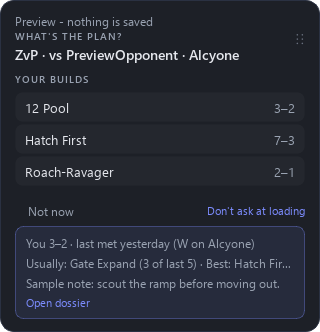
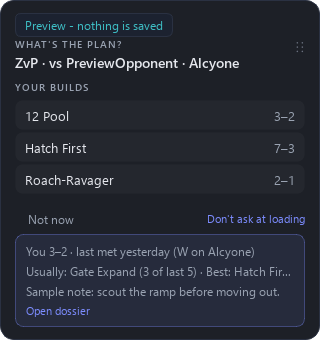
test(agent): verify real preview Escape and final integrated checks

diff --git a/apps/agent/tests/test_card_previews.py b/apps/agent/tests/test_card_previews.py
@@ -92,8 +92,15 @@ def test_preview_escape_and_timeout_are_local_and_real_card_replaces_immediately
     assert elapsed.wait(1000), "the real Qt preview timeout was not delivered"
     assert not preview.isVisible() and recorder.calls == []
     host.show_preview(LOADING); preview = host.window(LOADING)
-    preview._preview_escape.activated.emit()
+    # Loading cards retain their no-focus native flags. Escape is app-local:
+    # it works while the user remains in Settings without a global game hotkey.
+    settings_input = QtWidgets.QLineEdit()
+    settings_input.show(); settings_input.activateWindow(); settings_input.setFocus()
+    app.processEvents()
+    QtTest.QTest.keyClick(settings_input, QtCore.Qt.Key_Escape)
+    app.processEvents()
     assert not preview.isVisible() and recorder.calls == []
+    settings_input.close(); settings_input.deleteLater()
     host.show_preview(LOADING)
     real = postgame_model()
     host.dispatch("show_postgame", (real,)); app.processEvents()

diff --git a/docs/handoff/card-preview-checkpoint.md b/docs/handoff/card-preview-checkpoint.md
@@ -1,48 +1,50 @@
 # Wave 3 card preview/reset/keyboard checkpoint
 
-Isolated `codex/wave3-card-previews` branch in
-`C:/SC2TOOLS/.worktrees/wave3-card-previews`, stacked on private scouting #691
-`db421836`. Complete final-plan spec, augments (none), audit and howto read for
-`agent-gui-expansion-1`. Root owns dependency-order merge and release.
+Isolated branch `codex/wave3-card-previews` in
+`C:/SC2TOOLS/.worktrees/wave3-card-previews`. Based on private scouting #691,
+then merged green main `441582d0` at `78032e52`. Complete final-plan specification,
+augments (none), audit and howto read for `agent-gui-expansion-1`.
 
-Implementation complete; final full/package/web checks remain: local sample models and preview action isolation,
-90-second/Escape lifecycle and immediate real-card replacement; Settings Cards
-controls and generic position reset with off-UI persistence; Enter/Down/Up search
-flow and unchanged Ctrl+Enter confirmation; actual Qt/runner/state regressions,
-help and README updates. Controller business logic is unchanged (verified empty controller diff).
+## Implemented
 
-No AI features/calls, new infrastructure, production operations, version bump,
-installer execution, signing, tag or release. Private scouting #691 is frozen
-clean at `db421836` with current main `b86ca989`; local integrated API133 and help72
-pass, both types pass. Exact-head GitHub python/API/web workflows for #691 are
-all successful. Expansion focused native/runner/state suite: **187 passed**.
+- Fixed sample loading/after-game models with three featured builds, Alcyone,
+  PreviewOpponent and sample scouting. Use the latest accepted replay's concrete
+  race persisted on the upload worker; default ZvP. Older history cannot replace
+  a newer race, and a save failure cannot lose the existing check-in callback.
+- Visible preview chip and local action interception: no controller, API or
+  browser work. Dragging still persists placement. Actual Qt timer closes at
+  90 seconds; Escape works while the user remains in this app without a global
+  game hotkey. Real cards replace previews immediately and have priority.
+- Settings Cards buttons work with check-ins off; generic reset clears every
+  host/state card kind, persists off the UI thread and repositions visible cards.
+  Three-second reset feedback and queue link use the existing website URL helper.
+- Search Enter selects/focuses the top displayed result (featured before More),
+  no-match does nothing, Down focuses without selecting, Up returns to search,
+  Ctrl+Enter still confirms. Native flags/handles never change and there is no
+  explicit activation request. Controller business logic is unchanged.
+- Rich build-check-in help, README, Unreleased entries and three reviewed native
+  screenshots at `docs/handoff/screenshots/desktop-card-preview-*.png`.
 
-Implemented fixed sample models (known race, default ZvP, Alcyone and scouting),
-local action interception with no controller/network/browser work, app-local
-Escape/90-second expiry and immediate real-card priority, generic placement reset
-and off-UI durable save, Cards controls usable while check-ins are off, and actual
-Settings queue URL wiring. The latest accepted replay race is persisted on the
-upload worker; older history cannot replace it. Search Enter picks/focuses the
-first displayed match, Down focuses without selecting and Up returns to search;
-Ctrl+Enter remains the card confirmation shortcut. Help/README/Unreleased entries
-are updated. Real Qt regressions include glyph metrics, actions, timer dispatch,
-drag/reset, keyboard focus and native no-activation flags. Full suite, frozen
-package smoke, screenshots, web checks and draft PR remain required.
+## Final verification
 
+- Integrated full Windows agent: **2,152 passed, 1 platform skip, 78 subtests**
+  (163.62 s). Focused native/runner/state suite:187 passed; final actual preview
+  suite:18 passed, including real Escape input from Settings.
+- The first full run exposed one test's fixed 40 ms wait under build load. It now
+  waits for the actual Qt timeout signal with a bounded one-second deadline,
+  retaining the active 90-second production timer assertion. No responsiveness
+  measurement or production timeout was relaxed.
+- Real unsigned PyInstaller one-folder bundle builds, includes the new preview
+  module and reports `NotSigned`. Its offline diagnostic paints all five pages,
+  Streams and both preview cards through production Settings callbacks with no
+  user state/service/network bootstrap. Loading320x340, postgame360x458,
+  Settings560x495 screenshots use installed Segoe UI fonts.
+- Exact-CI web production build and all unchanged budgets pass: /app234.9/240 kB,
+  game423/440, help151.2/185, help article179.4/200. Post-build typecheck, strict
+  touched-help lint and all72 help checks pass (70-article registry).
 
-## Integrated verification checkpoint
-
-Current main `441582d0` (including merged scouting #691) merged cleanly at
-`78032e52`. Source controller business logic is unchanged. All 187 focused checks
-pass. The first full suite found one new test's 40 ms fixed wait was too short
-for actual Qt timer delivery under package-build load; the other 2,151 tests
-passed. The regression now waits for the actual Qt timeout signal with a bounded
-1-second deadline and still asserts the production timer is 90 seconds, active,
-and closes the card. The timeout/package subset passes **24 checks**.
-
-The offline frozen-GUI diagnostic now actually paints both previews through
-production Settings callbacks, in addition to the five pages/Streams check,
-without state/service/thread/network bootstrap. Three reviewed native screenshots
-are in `docs/handoff/screenshots/desktop-card-preview-*.png`; final chip styling
-and final source/full/package/web checks are in progress. Both web types and all
-72 help checks passed before the final main integration; rerun after it.
+Offscreen tests verify native capture/no-activation requests, not real Windows
+foreground state or every capture tool. No AI feature/call, new infrastructure,
+production operation, version bump, installer execution, signing, tag or release.
+Root owns final remote CI and merge. Next separate desktop pack is
+`agent-stream-automation`; its complete specification/augments/howto was read.
